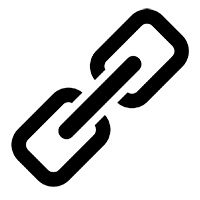
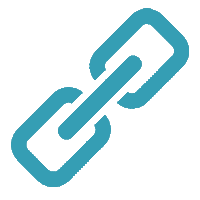
Color scheme

Changed region(s): [[0.03, 0.03, 0.96, 0.96]]

diff --git a/site/src/components/Header.js b/site/src/components/Header.js
@@ -7,7 +7,7 @@ import 'firebase/auth'
 import { useAuth, useUser } from 'reactfire';
 import axios from 'axios';
 import UserMenu from './UserMenu';
-import {config} from '../config';
+import { config } from '../config';
 
 var projects;
 projects = new Projects();
@@ -18,10 +18,10 @@ function Header(props) {
 
     const userLogoStyle = {
         borderRadius: "50%",
-        width: "40px",
-        height: "40px",
+        width: "35px",
+        height: "35px",
         marginTop: "8px",
-        backgroundColor: "darkblue",
+        backgroundColor: "#1A74A3",
         display: "flex",
         justifyContent: "center",
         alignItems: "center",
@@ -35,7 +35,7 @@ function Header(props) {
         left: "100px",
         lineHeight: "55px",
         verticalAling: "middle"
-        
+
     }
 
 
@@ -69,7 +69,7 @@ function Header(props) {
 
     const signIn = async () => {
         await reactAuth.signInWithPopup(new firebase.auth.GoogleAuthProvider()).then(result => {
-            if(result.user){
+            if (result.user) {
                 firebase.auth().currentUser.getIdToken(false).then(idToken => {
                     axios.post(`${config.apiUrl}/login/${result.user.uid}`, {
                         displayName: result.user.displayName,
@@ -126,6 +126,7 @@ function Header(props) {
             </div>
             <a href="https://docs.lbym.org" target="_new">
                 <div className="buttonDiv">
+                    <img src="/images/new-window.png" alt="Open docs icon"></img>
                     <span>Docs</span>
                 </div>
             </a>
@@ -141,7 +142,7 @@ function Header(props) {
 
             {user ?
                 <div id="userMenuWrapper" className="userMenu">
-                    <UserMenu toggleUserMenu = {toggleUserMenu.bind(this)} />
+                    <UserMenu toggleUserMenu={toggleUserMenu.bind(this)} />
                 </div>
                 :
                 null

diff --git a/site/src/css/styles.css b/site/src/css/styles.css
@@ -22,7 +22,7 @@
   body {
     align-content: stretch;
     align-items: stretch;
-    background: #ececec;
+    background: #efefef;
     display: flex;
     flex-direction: column;
     flex-wrap: nowrap;
@@ -37,7 +37,7 @@
 
     align-content: center;
     align-items: stretch;
-    background: #3f51b5;
+    background: #1b3752  ;
     box-shadow:
       0 4px 5px 0 rgba(0, 0, 0, 0.14),
       0 2px 9px 1px rgba(0, 0, 0, 0.12),
@@ -46,8 +46,8 @@
     display: flex;
     flex-direction: row;
     flex-wrap: nowrap;
-    font-size: 20px;
-    height: 55px;
+    font-size: 18.0px;
+    height: 50px;
     justify-content: flex-end;
     position: fixed;
     transition: transform 0.233s cubic-bezier(0, 0, 0.21, 1) 0.1s;
@@ -93,7 +93,7 @@
     padding-right: 20px;
     padding-left: 5px;
     position: absolute;
-    top: 56px;
+    top: 45px;
     left: 0;
     background-color: black;
     transition: all 0.2s ease-in-out;
@@ -103,10 +103,10 @@
 
   .userMenu {
     height: 100vh;
-    background-color: darkblue;
+    background-color: #1A74A3;
     position: absolute;
     left: 0;
-    top: 55px;
+    top: 50px;
     transform: translateX(-500px);
   }
 
@@ -123,10 +123,14 @@
   }
 
   .buttonDiv {
-    height: 55px;
+    height: 50px;
     vertical-align: middle;
-    margin-right: 10px;
+    margin-right: 18px;
     cursor: pointer;
+  }
+
+  .buttonDiv:hover {
+    border-bottom: 2px solid white;
   }
   
   .buttonDiv img {
@@ -135,7 +139,7 @@
   }
   
   .buttonDiv span {
-    line-height: 55px;
+    line-height: 50px;
     vertical-align: middle;
   }
 

diff --git a/site/src/css/layout.css b/site/src/css/layout.css
@@ -1,12 +1,12 @@
 /*
-Header height: 56px
+Header height: 50px
 Buttons: around 77px
 
 Assuming header area: 150x with a little padding
 */
 
 :root {
-    --interfaceHeight: calc(96vh - 100px);
+    --interfaceHeight: calc(96vh - 90px);
     --codeEntryWidth: 44vw;
     --chartHeight: 65vh;
   }
